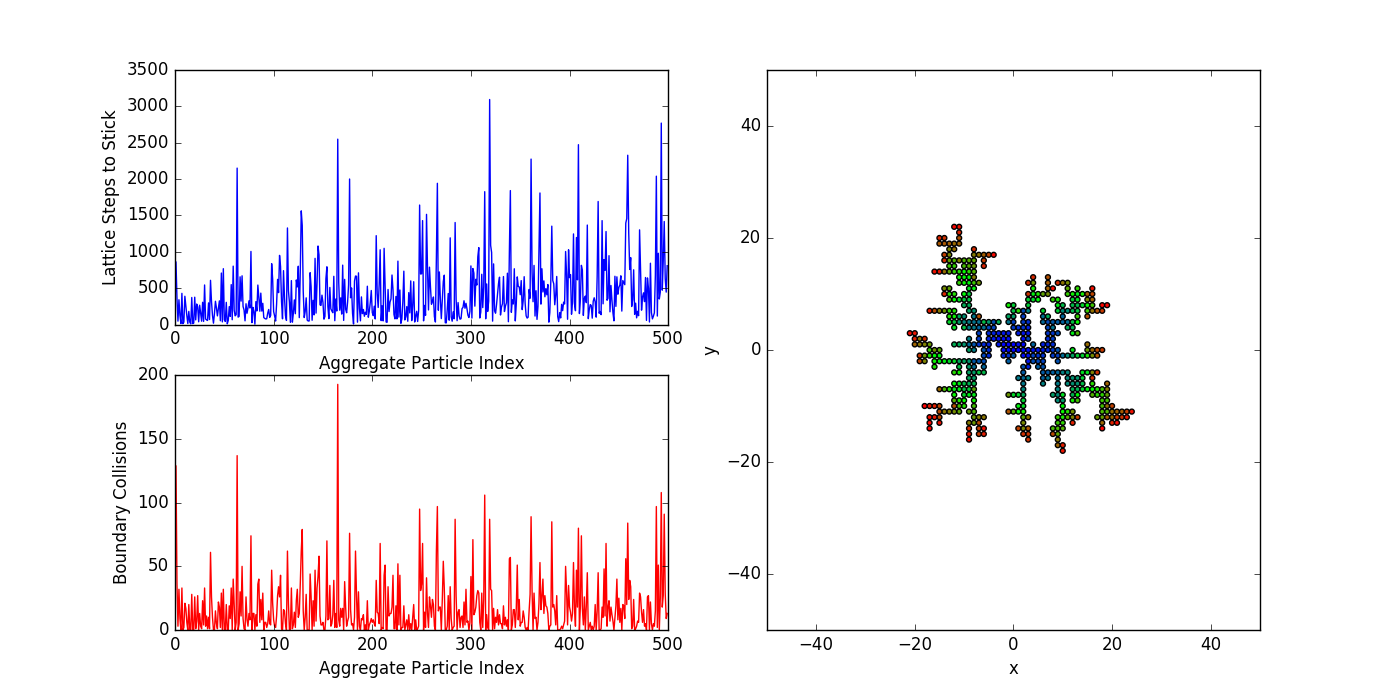
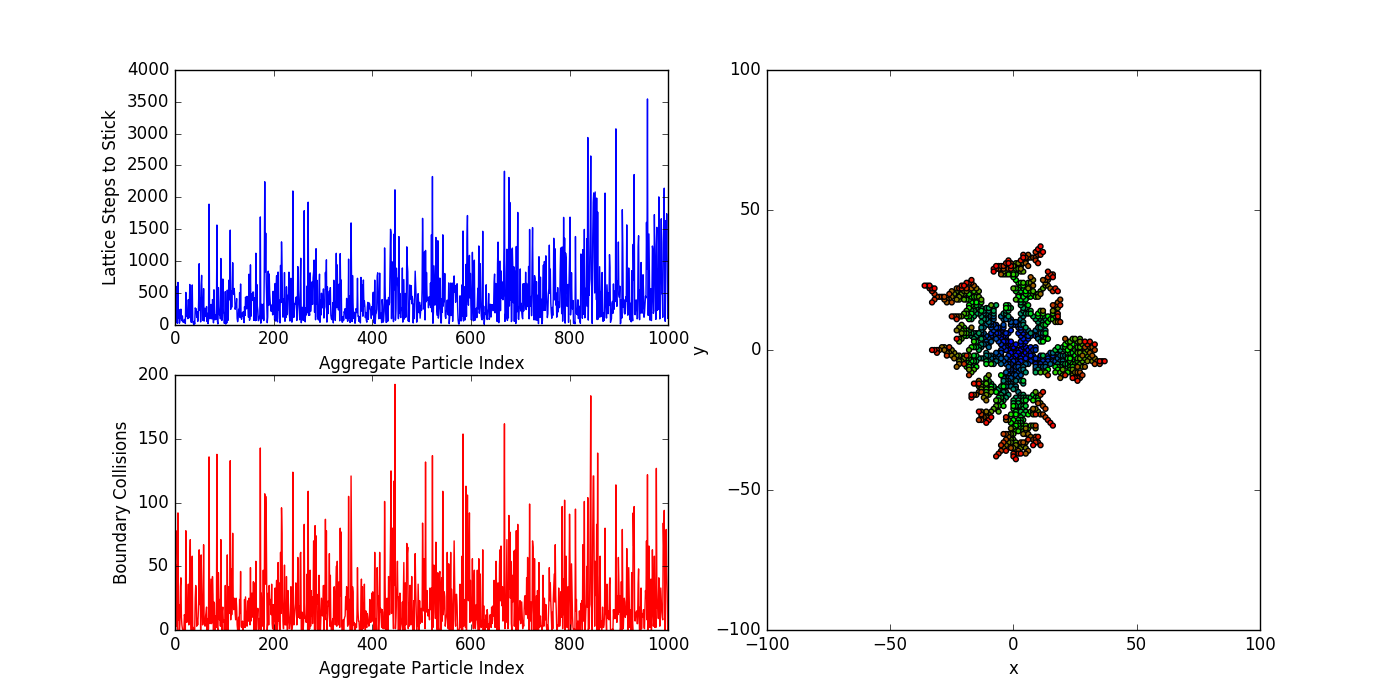
updated statistic tests file and added 3D simulation test example

diff --git a/tests/aggregate_statistic_tests.py b/tests/aggregate_statistic_tests.py
@@ -25,14 +25,14 @@ def boundary_collisions_test(nparticles):
     fig.show()
 
 def combined_test(nparticles, save=False, filename=None):
-    aggregate = drp.DiffusionLimitedAggregate2D()
+    aggregate = drp.DiffusionLimitedAggregate2D(lattice_type=drp.LatticeType.TRIANGLE)
     aggregate.generate(nparticles)
     prange = np.arange(nparticles)
-    fig = plt.figure(figsize=(14,7))
-    figdims = [(2,2,1), (2,2,3), (2,2,(2,4))]
+    fig = plt.figure(figsize=(14, 7))
+    figdims = [(2, 2, 1), (2, 2, 3), (2, 2, (2, 4))]
     count = 0
-    for nrows, ncols, pn in figdims:
-        sub = fig.add_subplot(nrows, ncols, pn)
+    for nrows, ncols, plotno in figdims:
+        sub = fig.add_subplot(nrows, ncols, plotno)
         if count == 0:
             sub.plot(prange, aggregate.required_steps)
             sub.set_xlabel('Aggregate Particle Index')
@@ -52,4 +52,4 @@ def combined_test(nparticles, save=False, filename=None):
     fig.show()
     fig.savefig(filename)
 
-combined_test(500, save=True, filename="../example_images/agg2dstats.png")
+combined_test(1000, save=True, filename="../example_images/agg2dstats.png")

diff --git a/tests/dla3d_tests.py b/tests/dla3d_tests.py
@@ -10,9 +10,9 @@ def simple_test(nparticles):
     plot_aggregate3d(aggregate)
 
 def real_time_test(nparticles):
-    aggregate = drp.DiffusionLimitedAggregate3D(lattice_type=drp.LatticeType.TRIANGLE)
-    sim = RealTimeAggregate3D(aggregate, nparticles, blitting=False, save=False,
+    aggregate = drp.DiffusionLimitedAggregate3D(lattice_type=drp.LatticeType.SQUARE)
+    sim = RealTimeAggregate3D(aggregate, nparticles, blitting=True, save=False,
                               filename="../example_images/agg3dtest.gif", autorotate=True)
 
 #simple_test(500)
-real_time_test(100)
+real_time_test(200)

diff --git a/droplet/realtime.py b/droplet/realtime.py
@@ -174,9 +174,9 @@ class RealTimeAggregate3D(object):
             agg, col, count = next(self.stream)
             self.scat._offsets3d = (agg[:count, 0], agg[:count, 1], agg[:count, 2])
             if self.autorotate:
-                self.angle = (self.angle + 1)%360
+                self.angle = (self.angle + 2)%360
                 self.ax.view_init(30, self.angle)
-                plt.draw()
+            plt.draw()
         except StopIteration:
             pass
         finally:

diff --git a/README.rst b/README.rst
@@ -41,15 +41,28 @@ The following simple case simulates a 2D DLA of 500 particles on a square-lattic
 .. code:: python
 
     import droplet as drp
-    dla2d = drp.DiffusionLimitedAggregate2D()
-    sim = drp.RealTimeAggregate2D(dla2d, nparticles=500, save=True,
+    aggregate = drp.DiffusionLimitedAggregate2D()
+    sim = drp.RealTimeAggregate2D(aggregate, nparticles=500, save=True,
                                   filename="../example_images/agg2dtest.gif")
 
 This produces the animated scatter-chart shown below, where the colour gradient represents the order at which particles were added to the aggregate.
 
 .. image:: example_images/agg2dtest.gif 
 
-Statistics describing the generation of the aggregate can be tracked and plotted, the following example shows the number of lattice steps and boundary collisions experienced by each spawned Browian particle before it stuck to the aggregate.
+Three-dimensional aggregates can also be simulated in real-time using similar syntax. The code shown below produces an aggregate on a cubic lattice with the simulation again saved to an output file:
+
+.. code:: python
+
+    import droplet as drp
+    aggregate = drp.DiffusionLimitedAggregate3D()
+    sim = drp.RealTimeAggregate3D(aggregate, nparticles=200, autorotate=True, save=True,
+                                  filename="../example_images/agg3dtest.gif")
+
+A gif of the resulting animated scatter-chart is shown below.
+
+.. image:: example_images/agg3dtest.gif
+
+Statistics describing the generation of the aggregate can be tracked and plotted, the following example shows the number of lattice steps and boundary collisions experienced by each Browian particle before it stuck to the aggregate for a triangular lattice.
 
 .. code:: python
 
@@ -58,7 +71,7 @@ Statistics describing the generation of the aggregate can be tracked and plotted
     import droplet as drp
 
     nparticles = 500
-    aggregate = drp.DiffusionLimitedAggregate2D()
+    aggregate = drp.DiffusionLimitedAggregate2D(drp.LatticeType.TRIANGLE)
     aggregate.generate(nparticles)
     prange = np.arange(nparticles)
     fig = plt.figure()
